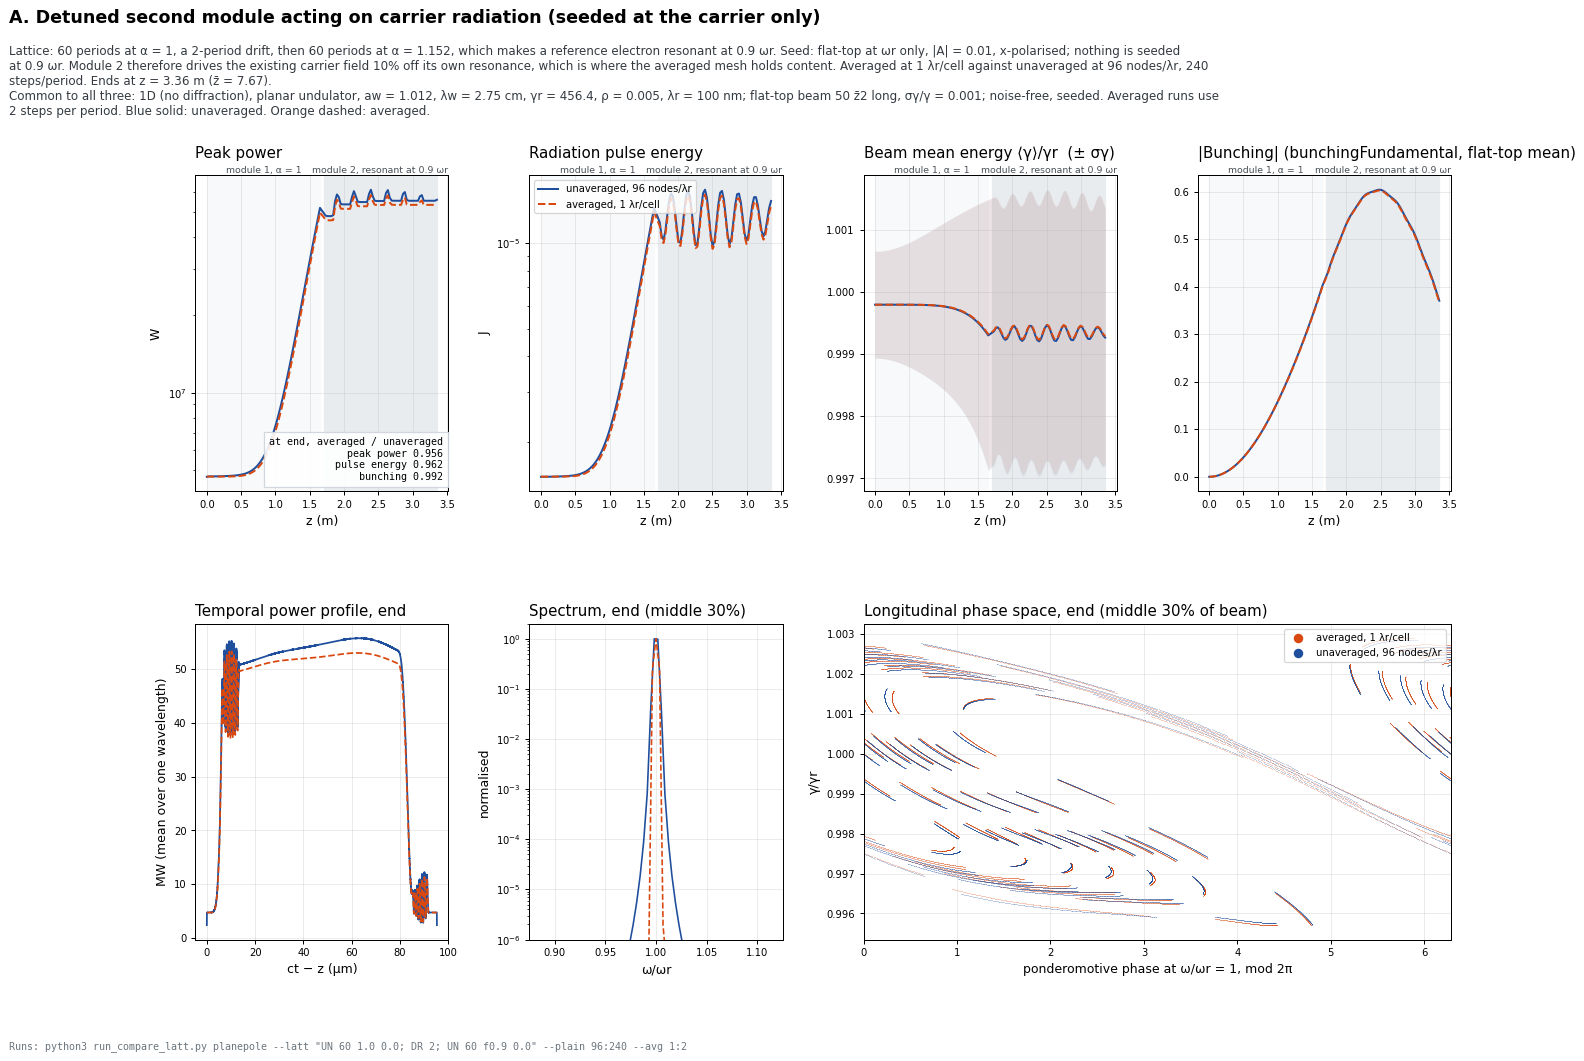
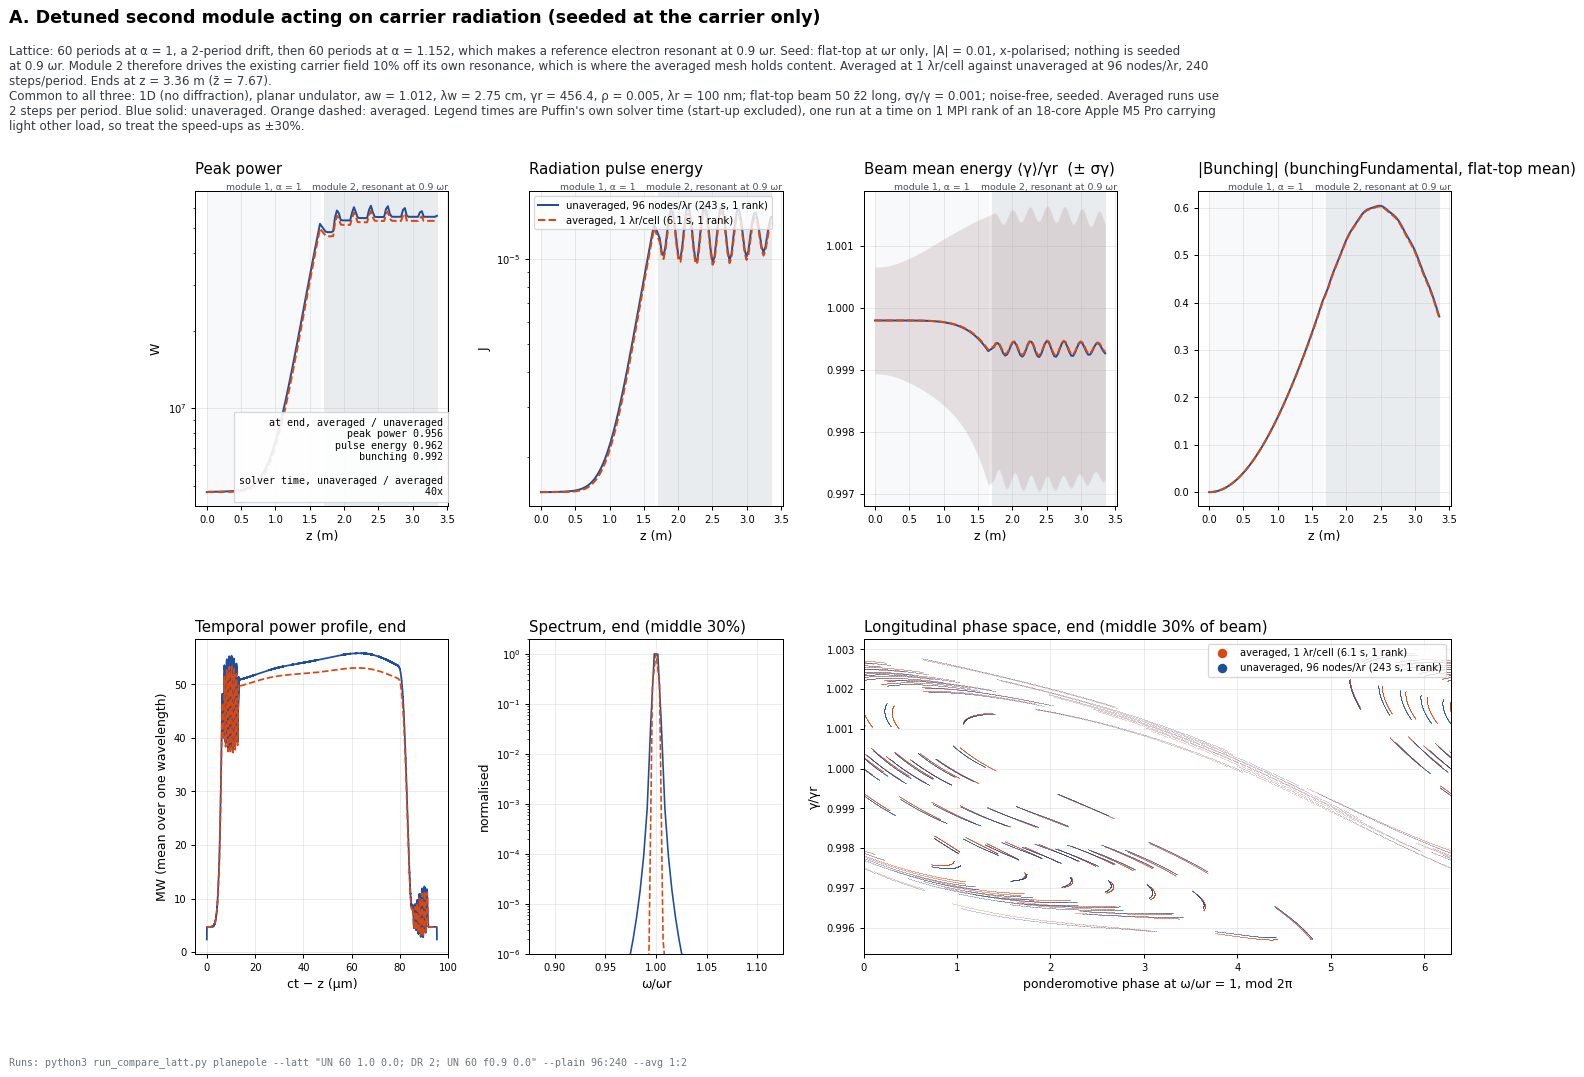
Add 3D lattice comparison figures and solver timings
run_compare_latt.py gains --3d (deck3d.in, with --blen and --np), --set for
main-input overrides and --plain none, and records the MPI rank count in each
run's stdout.txt.  plot_compare_latt.py reads 3D dumps, summing the spectrum
over the transverse mesh, and puts each run's solver time and ranks in the
legend and the speed-up in the ratio box.

figures/latt3d_*.png are cases A, B and C on the 3D deck; the 1D figures are
redrawn with timings.  The README records both.

diff --git a/benchmark/averaged/run_compare_latt.py b/benchmark/averaged/run_compare_latt.py
@@ -6,6 +6,7 @@ Usage:
         [--latt "UN NW ALPHA TAPER; DR NW; ..."]  [--nperiods N] [--taper T]
         [--seed AX,AY] [--seed2 F:AX,AY] [--z2len L]
         [--plain NODES:STEPS ...] [--avg CELLS:STEPS ...] [--every K]
+        [--3d [--blen L] [--np N]] [--set NAME=VALUE ...]
 
   --latt SPEC      a lattice, elements separated by ';'.  'UN NW ALPHA TAPER'
                    is an undulator module of NW periods with alpha = aw/aw0
@@ -23,6 +24,15 @@ Usage:
                    needs a longer mesh.
   --plain, --avg   as run_compare.py [defaults 24:60 48:120 and 1:2].
   --every K        print every Kth period's write in the table [default 10].
+  --3d             run on deck3d.in / beam_file3d.in / seed_file3d.in instead
+                   (diffraction, a matched beam; seed amplitude 0.001).  Only
+                   the per-write table is printed: the spectral and by-colour
+                   lines are 1D only.  --blen L sets the beam's z2 length
+                   [beam_file3d.in's 1.5], --np the MPI ranks [4].  Give
+                   --z2len too: the mesh must hold the beam plus its slippage.
+  --set NAME=VALUE override any main-input variable, e.g. a wider transverse
+                   mesh, sFModelLengthX=12.0 iNumNodesX=61.  Repeatable.
+  --plain none     run no unaveraged case (only the averaged runs).
 
 Each --plain run is compared with each --avg run, write by write, on the
 flat-top mean (middle 30% of the mesh) of /power, |/bunchingFundamental| and
@@ -115,9 +125,15 @@ def run(tag, und, opts, averaged, mesh, steps):
     workdir = os.path.join(HERE, "run_%s" % tag)
     shutil.rmtree(workdir, ignore_errors=True)
     os.makedirs(workdir)
-    shutil.copy(os.path.join(HERE, "beam_file.in"), workdir)
+    suffix = "3d" if opts["3d"] else ""
+    with open(os.path.join(HERE, "beam_file%s.in" % suffix)) as fh:
+        beam = fh.read()
+    if opts["blen"]:
+        beam = re.sub(r"(?m)^(sLenE\s*=\s*[^,]*,[^,]*,\s*)[^,]*", r"\g<1>%s" % opts["blen"], beam)
+    with open(os.path.join(workdir, "beam_file.in"), "w") as fh:
+        fh.write(beam)
 
-    with open(os.path.join(HERE, "seed_file.in")) as fh:
+    with open(os.path.join(HERE, "seed_file%s.in" % suffix)) as fh:
         seed = fh.read()
     seed = sub(seed, "sA0_X", opts["seed"][0])
     seed = sub(seed, "sA0_Y", opts["seed"][1])
@@ -134,7 +150,7 @@ def run(tag, und, opts, averaged, mesh, steps):
     with open(os.path.join(workdir, "seed_file.in"), "w") as fh:
         fh.write(seed)
 
-    with open(os.path.join(HERE, "deck.in")) as fh:
+    with open(os.path.join(HERE, "deck%s.in" % suffix)) as fh:
         deck = fh.read()
     if "," in und:
         ux, uy = und.split(",")
@@ -148,6 +164,8 @@ def run(tag, und, opts, averaged, mesh, steps):
     deck = sub(deck, "nPeriods", opts["nperiods"])
     deck = sub(deck, "taper", opts["taper"])
     deck = sub(deck, "sFModelLengthZ2", opts["z2len"])
+    for name, val in opts["set"]:
+        deck = sub(deck, name, val)
     if opts["latt"]:
         with open(os.path.join(workdir, "run.latt"), "w") as fh:
             fh.write(lattice_lines(opts["latt"], und, steps))
@@ -162,12 +180,13 @@ def run(tag, und, opts, averaged, mesh, steps):
         fh.write(deck)
 
     env = dict(os.environ, OMP_NUM_THREADS="1")
-    proc = subprocess.run(["mpirun", "-np", "1", PUFFIN, "run.in"], cwd=workdir, env=env,
+    proc = subprocess.run(["mpirun", "-np", opts["np"], PUFFIN, "run.in"], cwd=workdir, env=env,
                           stdout=subprocess.PIPE, stderr=subprocess.STDOUT)
     out = proc.stdout.decode(errors="replace")
     with open(os.path.join(workdir, "stdout.txt"), "w") as fh:
+        fh.write("# mpirun -np %s, OMP_NUM_THREADS=1\n" % opts["np"])   # read by plot_compare_latt.py
         fh.write(out)
-    if proc.returncode != 0 or "Tried rearranging" in out:
+    if proc.returncode != 0 or "Tried rearranging" in out or "not large enough" in out:
         sys.stderr.write(out[-2000:])
         raise SystemExit("puffin failed for %s" % tag)
     secs = sum(float(s) for s in re.findall(r"Finished undulator module in\s+([0-9.E+-]+)", out))
@@ -230,12 +249,16 @@ def main():
     args = sys.argv[1:]
     und = args.pop(0)
     opts = {"latt": "", "nperiods": "60", "taper": "0.0", "seed2": None, "z2len": "60.0",
-            "seed": ("0.01", "0.0") if und == "planepole" else ("0.01", "0.01")}
+            "seed": None, "3d": False, "blen": None, "np": "1", "set": []}
     plains, avgs, which, every = [], [], None, 10
     while args:
         a = args.pop(0)
-        if a in ("--latt", "--nperiods", "--taper", "--z2len"):
+        if a in ("--latt", "--nperiods", "--taper", "--z2len", "--blen", "--np"):
             opts[a[2:]] = args.pop(0)
+        elif a == "--3d":
+            opts["3d"] = True
+        elif a == "--set":
+            opts["set"].append(tuple(args.pop(0).split("=", 1)))
         elif a == "--seed":
             opts["seed"] = tuple(args.pop(0).split(","))
         elif a == "--seed2":
@@ -247,7 +270,11 @@ def main():
             which = plains if a == "--plain" else avgs
         else:
             which.append(tuple(a.split(":")))
-    plains = plains or [("24", "60"), ("48", "120")]
+    plains = [p for p in plains if p != ("none",)] if plains else [("24", "60"), ("48", "120")]
+    amp = "0.001" if opts["3d"] else "0.01"
+    if opts["3d"] and opts["np"] == "1":
+        opts["np"] = "4"
+    opts["seed"] = opts["seed"] or ((amp, "0.0") if und == "planepole" else (amp, amp))
     avgs = avgs or [("1", "2")]
 
     if opts["latt"]:
@@ -255,6 +282,9 @@ def main():
     tag = re.sub(r"[^A-Za-z0-9]+", "_", "%s %s %s %s %s %s" % (
         und, opts["latt"], opts["nperiods"], opts["taper"], opts["seed2"],
         opts["z2len"])).strip("_")[-90:]
+    if opts["3d"]:
+        tag = "3d_%s_b%s%s" % (tag[-80:], opts["blen"] or "",
+                               "".join("_%s%s" % nv for nv in opts["set"]))
 
     if opts["seed2"]:
         f2 = float(opts["seed2"][0])
@@ -276,13 +306,14 @@ def main():
                               cells, steps)
         print("averaged lambdarPerCell=%s steps=%s  %.1f s%s"
               % (cells, steps, secs, "  [band WARNING printed]" if warned else ""))
-        avg_runs.append(("c%s s%s" % (cells, steps), history(d), spectrum(d, True, freqs)))
+        avg_runs.append(("c%s s%s" % (cells, steps), history(d),
+                         None if opts["3d"] else spectrum(d, True, freqs)))
 
     for nodes, steps in plains:
         wd, secs, _ = run("L_%s_plain_n%s_s%s" % (tag, nodes, steps), und, opts, False,
                           nodes, steps)
         hp = history(wd)
-        sp = spectrum(wd, False, freqs)
+        sp = None if opts["3d"] else spectrum(wd, False, freqs)
         for name, ha, sa in avg_runs:
             zs = sorted(set(ha) & set(hp))
             print()
@@ -298,6 +329,9 @@ def main():
                 print("  %6.3f  %10.4e %10.4e %6.4f | %7.4f %7.4f %6.4f | %10.6f %10.6f %9.2e"
                       % (z, pp, pa, pa / pp, bp, ba, ba / bp if bp else float("nan"),
                          gp, ga, ga - gp))
+            if opts["3d"]:
+                sys.stdout.flush()
+                continue
             print("  spectral centre, middle 30%%: plain %.5f  avg %.5f   (diff %.2e)"
                   % (centre(freqs, sp), centre(freqs, sa),
                      centre(freqs, sa) - centre(freqs, sp)))

diff --git a/benchmark/averaged/plot_compare_latt.py b/benchmark/averaged/plot_compare_latt.py
@@ -1,5 +1,5 @@
 #!/usr/bin/env python3
-"""Overlay an averaged and an unaveraged 1D run on the same axes.
+"""Overlay an averaged and an unaveraged run, 1D or 3D, on the same axes.
 
 Usage:
   python3 plot_compare_latt.py OUT.png --unavg DIR --avg DIR [--before DIR]
@@ -24,7 +24,10 @@ of the beam, both runs overlaid.  Bunching, <gamma> and sigma_gamma are means
 over the middle 30% of the pulse (the flat top), as run_compare_latt.py takes
 them.  SI units throughout, using the datasets
 Puffin writes (powerSI, Lc, Lg), via utilities/pyPlotting/puffin_viz_data.
-Needs numpy, h5py and matplotlib.
+Each run's legend entry carries its solver time and MPI ranks, from the
+stdout.txt run_compare_latt.py keeps, and the ratio box the speed-up.  Time
+the two runs on the same ranks and an otherwise idle machine for the ratio
+to mean anything.  Needs numpy, h5py and matplotlib.
 """
 
 import argparse
@@ -77,6 +80,24 @@ def window_nodes(attrs, n, fold):
     return round(lam / (span / max(n - 1, 1)))
 
 
+def runtime(d):
+    """(seconds, MPI ranks): the solver time Puffin reports, summed over the
+    lattice's modules, from the stdout.txt run_compare_latt.py keeps.  It
+    excludes start-up and the initial writes."""
+    with open(os.path.join(d, "stdout.txt")) as fh:
+        out = fh.read()
+    m = re.match(r"# mpirun -np (\d+)", out)
+    secs = sum(float(v) for v in re.findall(r"Finished undulator module in\s+([0-9.E+-]+)", out))
+    return secs, int(m.group(1)) if m else None
+
+
+def fmt_time(secs, ranks):
+    t = "%.0f s" % secs if secs >= 10 else "%.1f s" % secs
+    if secs >= 600:
+        t = "%.0f min" % (secs / 60)
+    return t + ("" if ranks is None else ", %d rank%s" % (ranks, "" if ranks == 1 else "s"))
+
+
 def history(d, fold):
     z, ppk, en, g, sg, b = [], [], [], [], [], []
     for f in files(d, "integrated"):
@@ -105,23 +126,37 @@ def profile(d, fold):
 def spectrum(d):
     """Normalised |FT|^2 of the middle 30% of the field, Hann windowed,
     against w/wr.  Every stored component is used: the unaveraged pair
-    (A_x, -A_y), or each averaged Cartesian envelope (B_x, B_y)."""
+    (A_x, -A_y), or each averaged Cartesian envelope (B_x, B_y).  In 3D the
+    spectrum of each transverse node is taken and summed over the mesh, so
+    it is the spectrum of the transversely integrated power."""
     with h5py.File(files(d, "aperp")[-1], "r") as h:
         f = h["aperp"][()]
         a = dict(h["runInfo"].attrs)
     n = f.shape[1]
     lo, hi = int(0.35 * n), int(0.65 * n)
-    w = np.hanning(hi - lo)
+    w = np.hanning(hi - lo).reshape((-1,) + (1,) * (f.ndim - 2))
+    rho, dz2 = float(a["rho"]), float(a["sLengthOfElmZ2"])
+    trans = tuple(range(1, f.ndim - 1))
+
+    def power(sig):
+        return (np.abs(np.fft.fft(sig * w, axis=0)) ** 2).sum(axis=trans)
+
     if pvd.is_averaged(a):
-        rho, dz2 = float(a["rho"]), float(a["sLengthOfElmZ2"])
-        tot = 0.0
-        for c in range(f.shape[0] // 2):
-            tot = tot + np.abs(np.fft.fft((f[2 * c, lo:hi] + 1j * f[2 * c + 1, lo:hi]) * w)) ** 2
+        tot = sum(power(f[2 * c, lo:hi] + 1j * f[2 * c + 1, lo:hi])
+                  for c in range(f.shape[0] // 2))
         om = 1.0 - 4.0 * np.pi * rho * np.fft.fftfreq(hi - lo, d=dz2)
         o = np.argsort(om)
         return om[o], tot[o] / tot.max(), a
-    om, s = pvd.spectrum(f[0, lo:hi] * w, f[1, lo:hi] * w, dict(a, nZ2=hi - lo))
-    return om, s, a
+    if f.ndim == 2:
+        om, s = pvd.spectrum(f[0, lo:hi] * w, f[1, lo:hi] * w,
+                             dict(a, nZ2=hi - lo))
+        return om, s, a
+    tot = sum(power(f[c, lo:hi]) for c in range(f.shape[0]))
+    om = 4.0 * np.pi * rho * np.fft.fftfreq(hi - lo, d=dz2)
+    keep = om > 0                     # a real field: the negative half mirrors it
+    om, tot = om[keep], tot[keep]
+    o = np.argsort(om)
+    return om[o], tot[o] / tot.max(), a
 
 
 def phase_space(d, fold, nmax=20000):
@@ -160,12 +195,14 @@ def main():
         with open(os.path.join(d, "run.in")) as fh:
             deck = fh.read()
         if re.search(r"qAveraged\s*=\s*\.true\.", deck, re.I):
-            v = re.search(r"lambdarPerCell\s*=\s*([^\s,]+)", deck).group(1)
+            v = re.search(r"(?m)^\s*lambdarPerCell\s*=\s*([^\s,]+)", deck).group(1)
             return "averaged, %s λr/cell" % v
-        v = re.search(r"nodesPerLambdar\s*=\s*([^\s,]+)", deck).group(1)
+        v = re.search(r"(?m)^\s*nodesPerLambdar\s*=\s*([^\s,]+)", deck).group(1)
         return "unaveraged, %s nodes/λr" % v
 
-    runs = [(label(o.unavg), o.unavg, C_UN, "-"), (label(o.avg), o.avg, C_AV, "--")]
+    T = {d: runtime(d) for d in (o.unavg, o.avg)}
+    runs = [("%s (%s)" % (label(d), fmt_time(*T[d])), d, c, ls)
+            for d, c, ls in ((o.unavg, C_UN, "-"), (o.avg, C_AV, "--"))]
     if o.before:
         runs.append((label(o.before) + ", before Bessel fix", o.before, C_PRE, ":"))
 
@@ -209,8 +246,12 @@ def main():
 
     lu, la = runs[0][0], runs[1][0]
     r = lambda i: H[la][1][i][-1] / H[lu][1][i][-1]  # noqa: E731
+    (tu, nu), (ta, na) = T[o.unavg], T[o.avg]
+    speed = "\n\nsolver time, unaveraged / averaged\n %.0fx" % (tu / ta)
+    if nu != na:
+        speed += " (on %s and %s ranks)" % (nu, na)
     ax["P"].text(0.98, 0.03, "at end, averaged / unaveraged\n peak power %.3f\n pulse energy %.3f"
-                 "\n bunching %.3f" % (r(1), r(2), r(5)),
+                 "\n bunching %.3f%s" % (r(1), r(2), r(5), speed),
                  transform=ax["P"].transAxes, ha="right", va="bottom", fontsize=8,
                  family="monospace", bbox=dict(fc="white", ec="#ced4da", alpha=0.9))
 

diff --git a/benchmark/averaged/README.md b/benchmark/averaged/README.md
@@ -502,11 +502,50 @@ Two things they show that the tables do not:
   peak, the unaveraged spectrum has wings out to +/-2.5% that the averaged one
   lacks. This has not been investigated.
 
+`figures/latt3d_*.png` are the same three cases in 3D, on `deck3d.in`
+(diffraction, a matched beam, Ipk = 4 kA), made with `run_compare_latt.py --3d`.
+Each beam is about three slippage lengths long so that the middle 30% is in
+steady state, as in 1D. The 3D beam saturates later (~150 periods), so the 3D
+taper case runs 150 periods untapered and then 100 tapered at the same rate;
+its x mesh is widened (`--set`), because a planar undulator gives no focusing
+in x and the beam outgrows the standard mesh by ~170 periods. Averaged /
+unaveraged at the end:
+
+| case | unaveraged | peak power | pulse energy | bunching |
+| --- | --- | --- | --- | --- |
+| 3D A, f = 0.9, carrier seeded | n48 | 0.951 | 0.951 | 0.995 |
+| 3D B, f = 0.75 own resonance | n48 | 1.107 (0.75 colour ~1.01) | 1.106 | 1.024 |
+| 3D C, taper -0.05 after saturation | n24 | 0.994 | 0.999 | 0.895, at a level of ~0.01 |
+
+They repeat the 1D picture: the -f image appears in 3D too (8.7% of the field
+energy in 3D B), and the 0.75 colour alone agrees to ~1%. Unlike 1D, the 3D
+taper first extracts ~1.7x more power before the beam detraps; both solvers
+follow that to 0.6%.
+
+**Solver time.** Each figure's legend gives Puffin's solver time (start-up
+excluded) and MPI ranks for both runs, same ranks for both:
+
+| case | ranks | unaveraged | averaged | speed-up |
+| --- | --- | --- | --- | --- |
+| 1D A (n96 / 1 λr per cell) | 1 | 243 s | 6.1 s | 40x |
+| 1D B (n48 / 0.125) | 1 | 58 s | 2.8 s | 21x |
+| 1D C (n96 / 1) | 1 | 510 s | 13.0 s | 39x |
+| 3D A (n48 / 1) | 4 | 2052 s | 49 s | 42x |
+| 3D B (n48 / 0.125) | 4 | 596 s | 114 s | 5x |
+| 3D C (n24 / 1) | 8 | 2537 s | 117 s | 22x |
+
+The 1D runs were timed one at a time, the 3D ones alongside each other, on an
+18-core Apple M5 Pro carrying other load; treat them as +/-30%. The speed-up
+falls with the cells per wavelength the averaged run needs: a colour 25% off
+the carrier needs 0.125 wavelengths per cell, 8 cells per wavelength, which
+in 3D, where each cell carries a transverse mesh, leaves only 5x over n48.
+Against n24 the 3D A speed-up is 14x (707 s).
+
 ### What this does not show
 
-- **1D, seeded, one rho.** No diffraction, which is frequency dependent and
-  which the averaged mode offsets about the carrier, and no SASE in a detuned
-  module.
+- **Seeded, one rho, mostly 1D.** Only the three 3D figures include
+  diffraction, which is frequency dependent and which the averaged mode
+  offsets about the carrier, and there is no SASE in a detuned module.
 - **The planar f = 0.9 single-seed gap**, the 2-5% left in the red rows at
   fine cells (helical, and planar and elliptical after the fix), and the
   bunching gap under a strong taper are measured, not explained.
